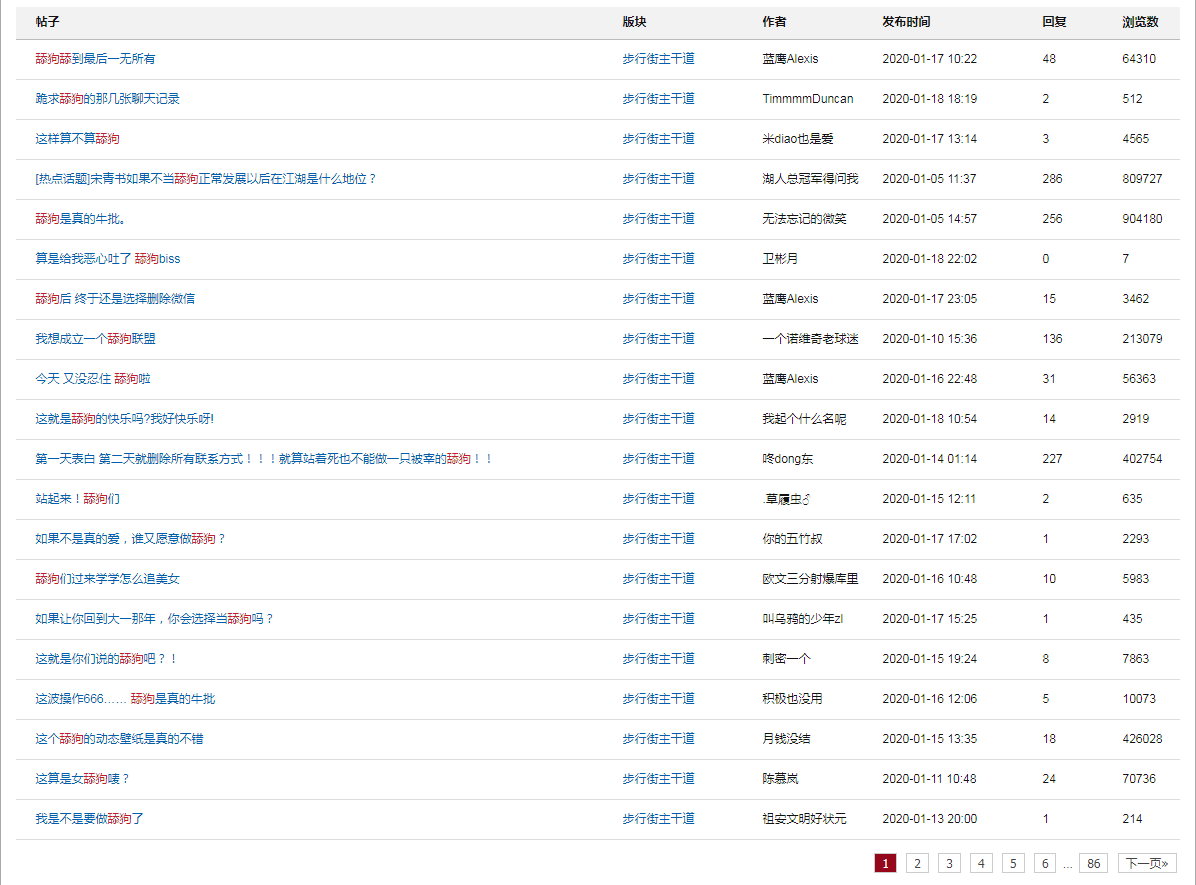
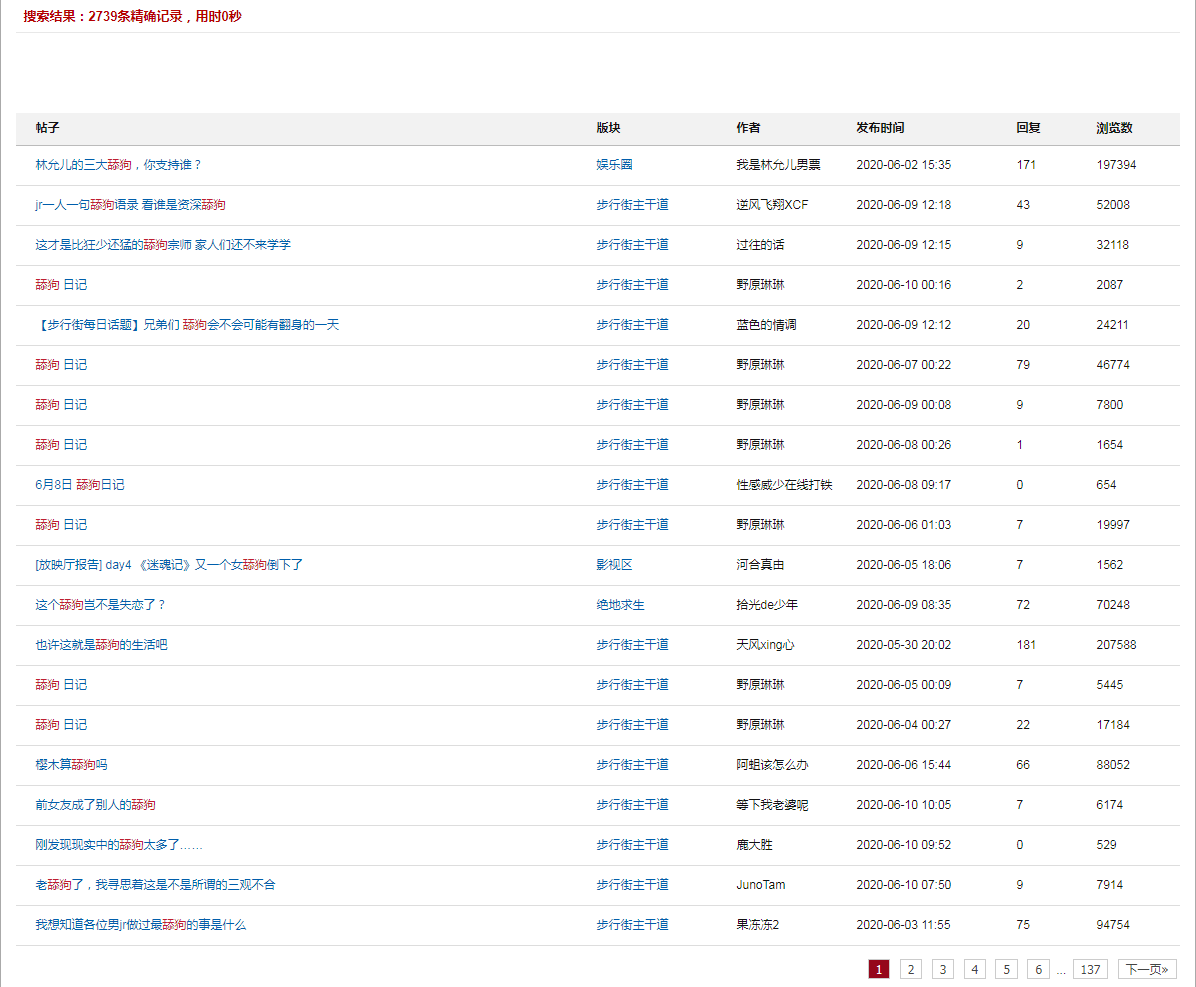
补充素材
Former-commit-id: 30ea6eca90fe08f163a5ee19731a92ac7b84a762

diff --git a/fantasy/bizarre/000/000-010.html b/fantasy/bizarre/000/000-010.html
@@ -47,6 +47,10 @@
         <p>但是现在所有公开资料当中都显示，<abbr class="who">邓榕</abbr>的老公是<abbr class="who">贺平</abbr>，公公是<abbr class="who">贺彪</abbr>，军事成就是与<abbr class="who">刘婷婷</abbr>联手剿灭盘踞<abbr class="where">幽州</abbr>的<abbr class="who">卞仲耘</abbr>匪帮，著作《彻底清算<abbr class="who">邓丕平</abbr>在无产阶级文化大革命中的滔天罪行》《从牌协主席到军委主席——我的父亲<abbr class="who">邓丕平</abbr>》。</p>
         <p>这下线索又串起来了，至于陕北的那位「<abbr class="pseudo">林冲</abbr>」，后来是不是成为一名卓越的梁山好汉从事替天行道工作，暂时没有进一步的情报。</p>
         <p><span class="tip">未完待续</span></p>
+        <div class="image-group">
+            <figure><img src="image/000-010-002a.png" /></figure>
+            <figure><img src="image/000-010-002b.png" /></figure>
+        </div>
     </main>
 
     <div class="signature">

diff --git a/fantasy/bizarre/002_ex.html b/fantasy/bizarre/002_ex.html
@@ -35,8 +35,8 @@
         <h2 class="heading">素材</h2>
         <h3 class="heading"><span>南直隶「远东第一体育论坛」</span></h3>
         <figure>
-            <img src="image/002-004.png" alt="86页×20条情报" />
-            <figcaption><span>86页×20条情报</span></figcaption>
+            <img src="image/002-004.png" alt="137页×20条情报" />
+            <figcaption><span>137页×20条情报</span></figcaption>
         </figure>
         <p>绿帽一条街名不虚传，素材极大充沛。到了这个程度已经无法罗列链接了，截个图吧。</p>
 
